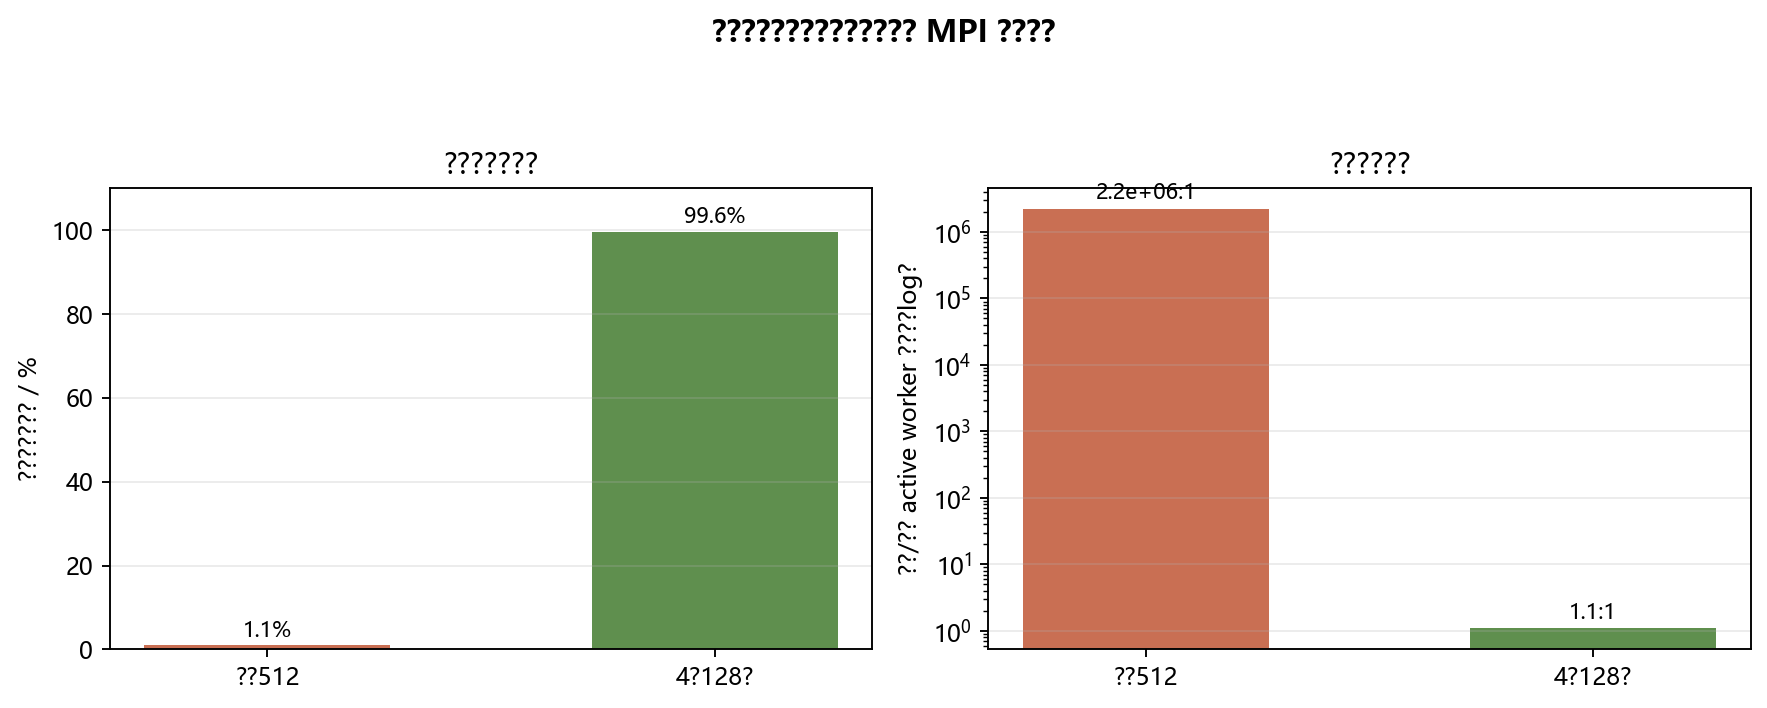
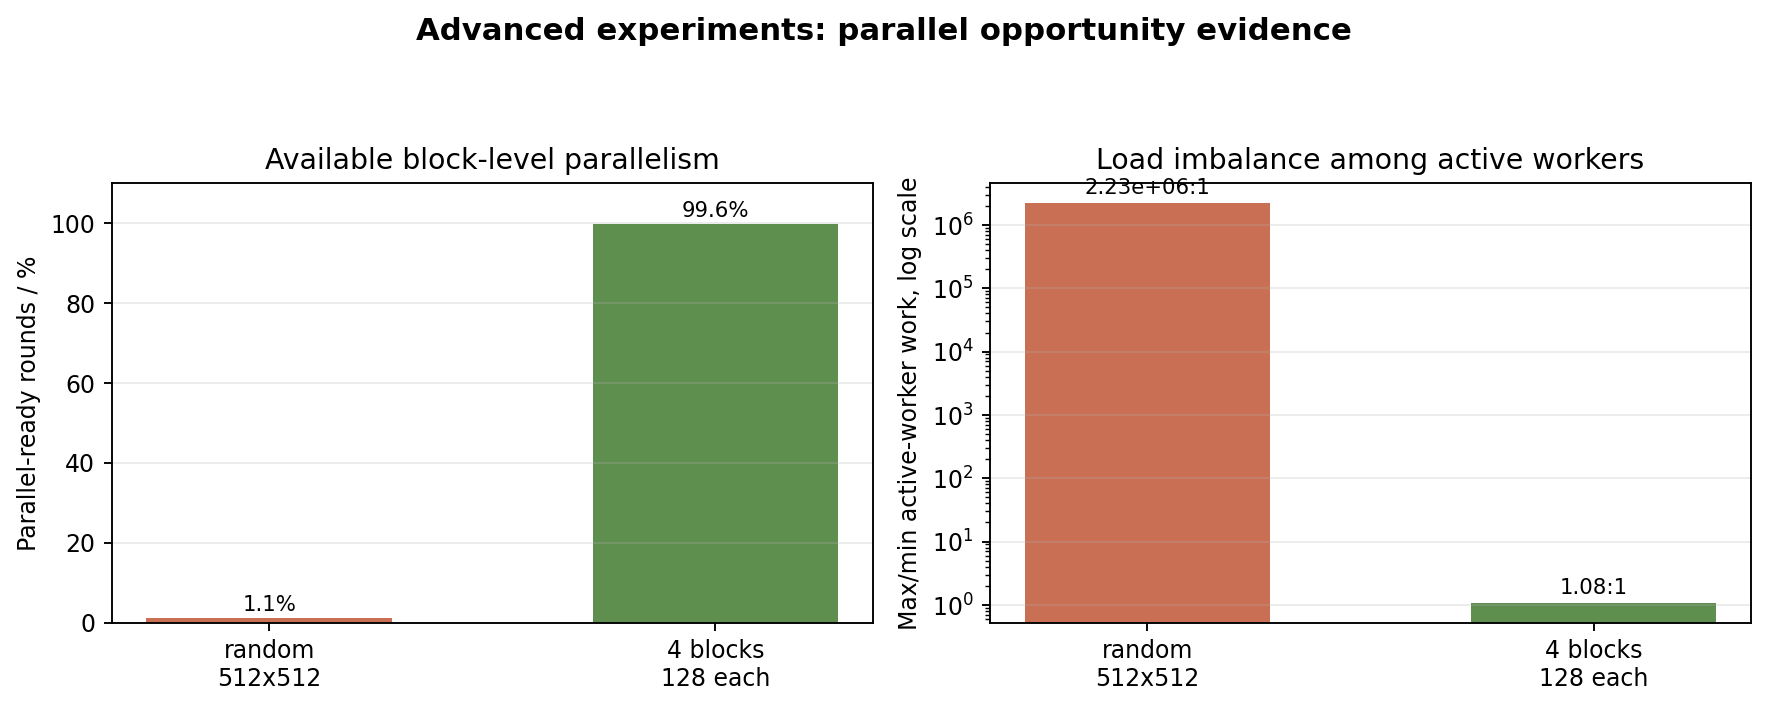
Fix advanced figures and streamline appendix

diff --git a/report.tex b/report.tex
@@ -503,6 +503,21 @@ ARM 服务器 & MPI+SIMD, $np=32$ & 随机 $1000\times1000$ & 67490.93 & 0.34 & 
 \label{fig:advanced-platform}
 \end{figure}
 
+本地补充实测在 Windows x86\_64 环境中完成，编译器为 MinGW-W64 \texttt{g++ 7.3.0}。这组实验不用于和 ARM 服务器做绝对耗时排名，而是固定同一平台、同一输入，比较 serial、pthread4 与 OpenMP4 在活动块并行度不同的情况下能否加速。OpenMP4 版本的编译与运行命令如下，随机种子固定为 20260408：
+
+\begin{lstlisting}[language=bash]
+g++ -std=c++17 -O2 -fopenmp experiment_driver.cpp \
+    bidiagonalization.cpp gkh.cpp \
+    -o profiling/experiment_openmp.exe
+
+$env:SVD_MODE='openmp'
+$env:SVD_THREADS='4'
+.\profiling\experiment_openmp.exe --seed 20260408 --repeat 1 \
+    --sizes 512x512 --gkh-blocks 128x4
+\end{lstlisting}
+
+实测输出中两个样例均为 \texttt{PASS}。随机 $512\times512$ 的相对重构误差为 $3.7935\times10^{-13}$，OpenMP4 的 GKH 时间为 4385.86 ms；4 个 $128$ 块结构样例的相对重构误差为 $3.8720\times10^{-13}$，OpenMP4 的 GKH 时间为 359.08 ms。与同一输入下的 serial 和 pthread4 数据放在一起可以看到：随机矩阵中 OpenMP4 只比 serial 快约 1.01 倍，而块结构中 OpenMP4 可达到 3.15 倍。这说明本地实测的核心变量不是“线程 API 名称”，而是活动块是否真的提供了足够的并行任务。
+
 \begin{figure}[H]
 \centering
 \includegraphics[width=0.86\textwidth]{figures/parallel_opportunity_evidence.png}
@@ -582,21 +597,8 @@ SIMD 优化仍然是必要的基础优化。它对上二对角化阶段有稳定
 
 
 \newpage
-\section*{附录 A：数据与图表文件}
-\addcontentsline{toc}{section}{附录 A：数据与图表文件}
-
-\begin{itemize}
-  \item 原始服务器输出：\texttt{data/results/raw/**/test.o} 与 \texttt{test.e}。
-  \item 汇总数据：\texttt{data/results/summary.csv}。
-  \item 本地 x86 对比数据：\texttt{666/results\_local/summary.csv}、\texttt{summary\_avg.csv} 和 \texttt{openmp4\_O2\_512.txt}。
-  \item 图表目录：\texttt{666/figures/}，包含规模扩展、加速比、时间构成、热力图、编译优化、SIMD 对比、重复运行波动图、VTune 热点图、进阶并行对比图、并行机会图和 AI 对话截图。
-  \item 本地 profiling 输出：\texttt{666/profiling/vtune\_summary.txt} 与 \texttt{666/profiling/vtune\_hotspots.txt}。
-  \item 进阶要求数据摘要：\texttt{666/profiling/advanced\_parallel\_evidence.txt}。
-\end{itemize}
-
-\newpage
-\section*{附录 B：生成式 AI 辅助学习对话记录}
-\addcontentsline{toc}{section}{附录 B：生成式 AI 辅助学习对话记录}
+\section*{附录 A：生成式 AI 辅助学习对话记录}
+\addcontentsline{toc}{section}{附录 A：生成式 AI 辅助学习对话记录}
 
 本附录记录了实验过程中利用生成式 AI 辅助理解 SIMD、多线程和 MPI 编程的对话截图。提问方式遵循“先给出自己的实现、实验数据或瓶颈判断，再请求 AI 检查和分析”的原则，避免直接要求 AI 代写完整代码或编造实验结论。
 